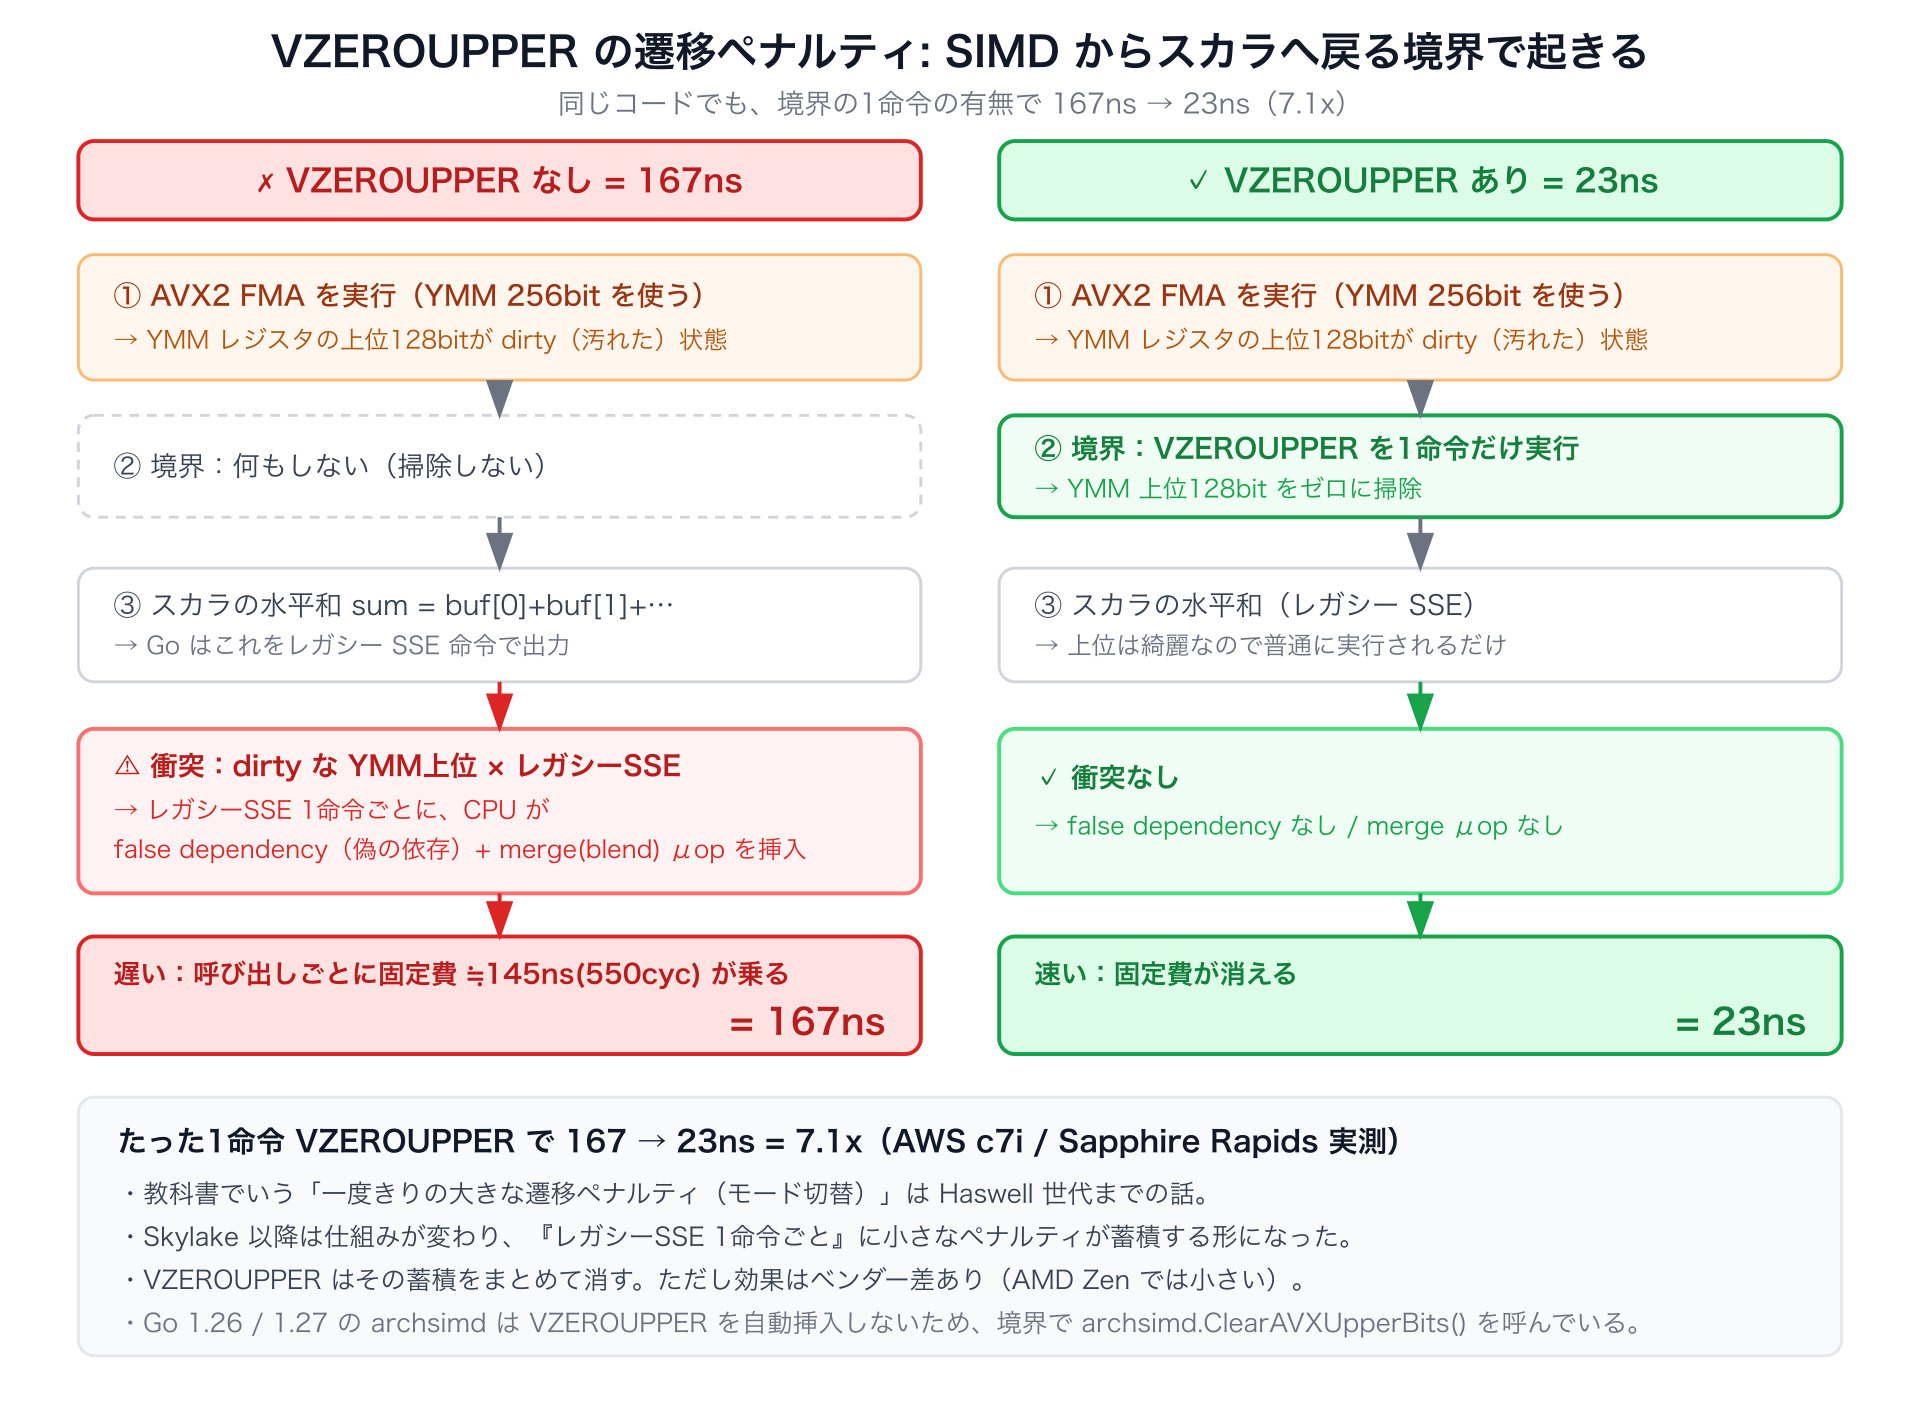
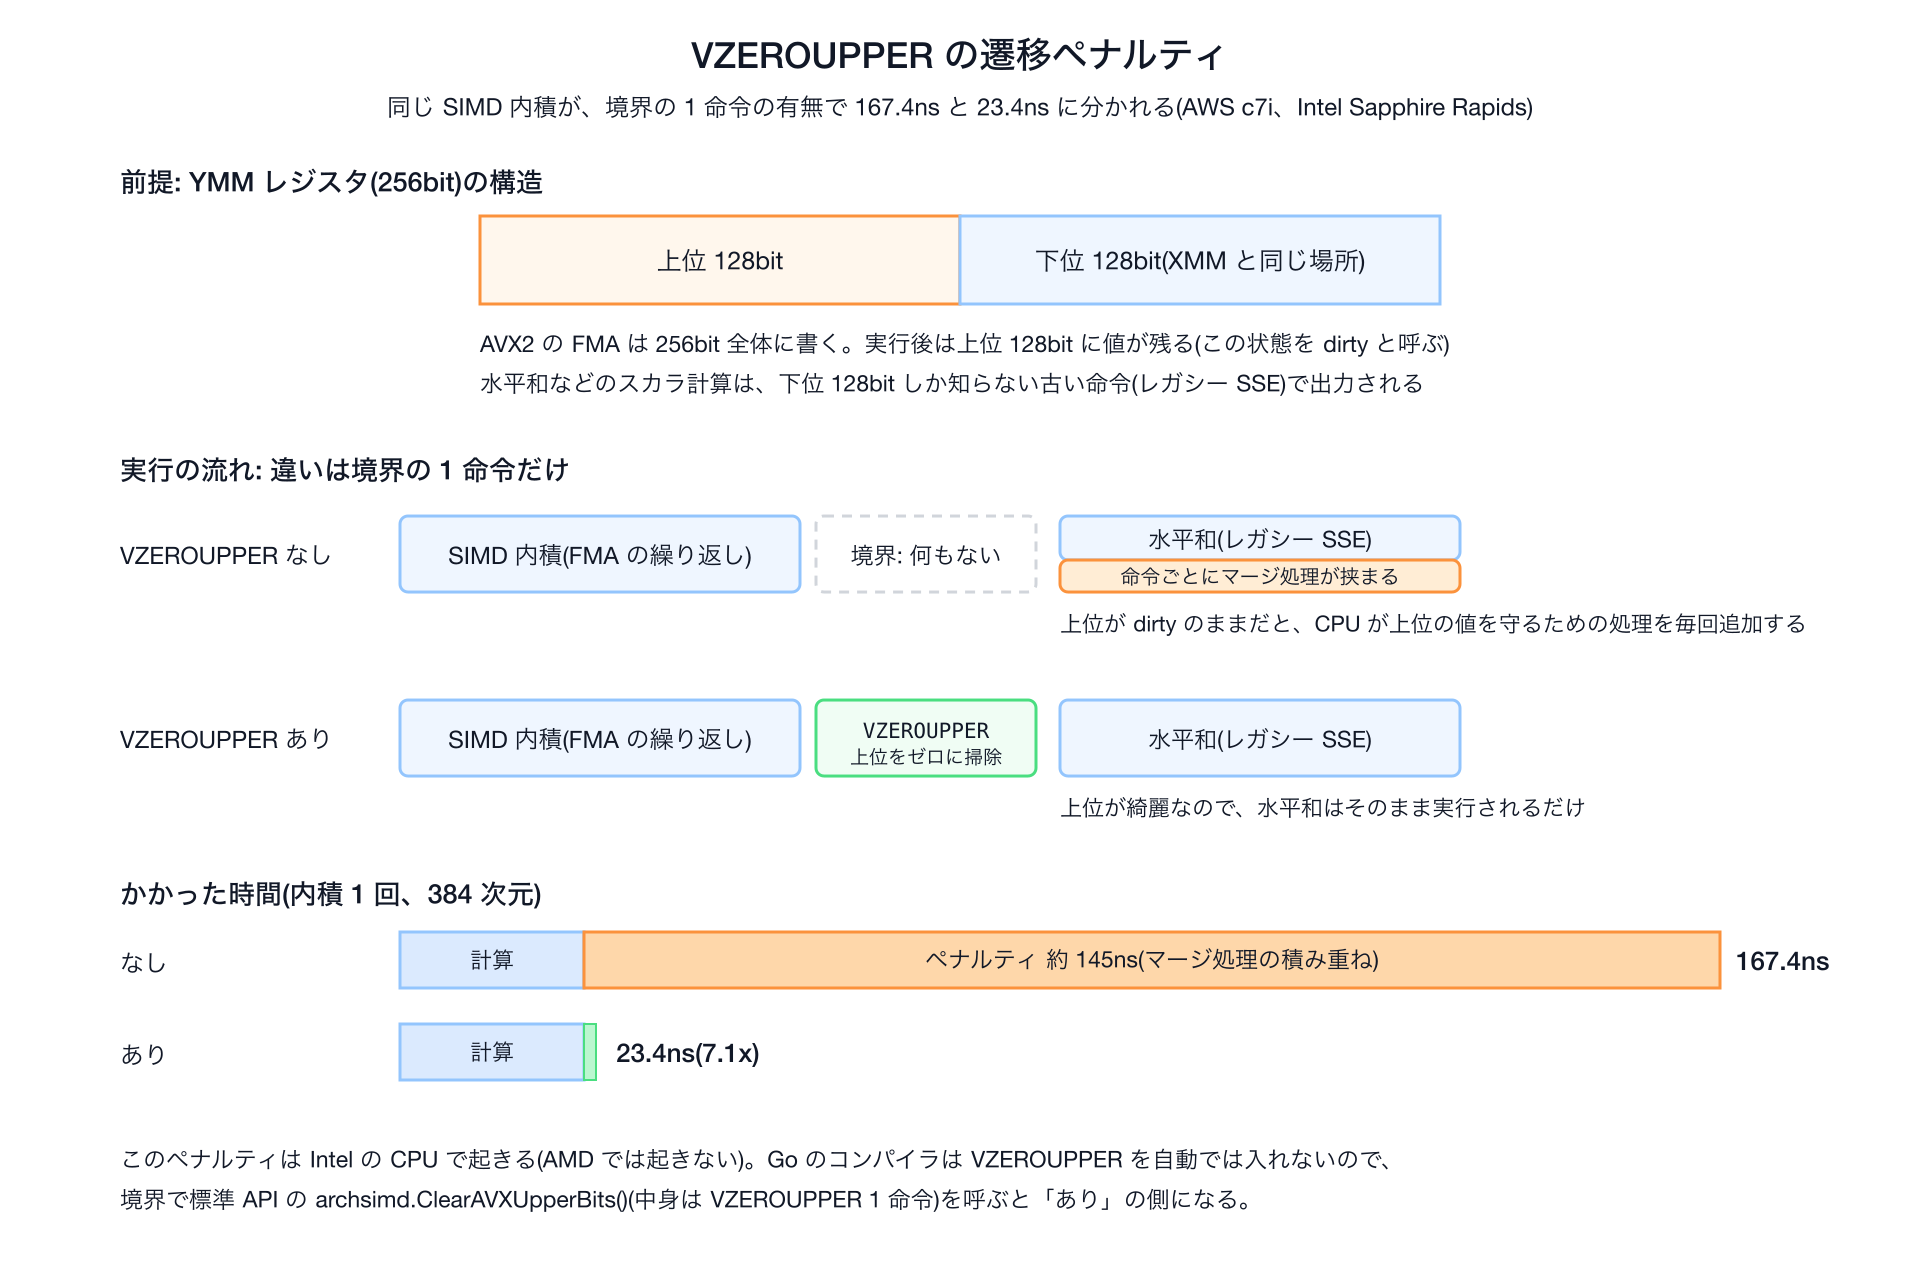
docs: 付録 §1 の図 2 枚(VZEROUPPER・register spill)を描き直し、本文を図に追従
VZEROUPPER の図をチェックリスト調の左右比較から、レジスタの構造・
実行の流れ・時間の内訳の 3 段構成に変更。ペナルティ約 145ns を
時間バーの長さで見せる。register spill の図は期待/実際の対比を
残しつつ、機械語 3 行(読む・FMA・書き戻す)をそのまま載せて
make spill の出力と対応づけた。記号(✗✓⚠)と色の煽りを排除。
本文は図の構成に合わせて段落を分割し、図を機械語の説明の前に移動。

Claude-Session: https://claude.ai/code/session_01TBZQnjYJzkxaC3BBCYE5nD

Changed region(s): [[0.0312, 0.0, 0.9688, 0.9688]]

diff --git a/docs/appendix/appendix.md b/docs/appendix/appendix.md
@@ -29,17 +29,17 @@
 | ② register spill      | 出現する。アキュムレータ 4 本で 23、12 本で 39 GFLOP/s | 出現する。4 本で 13.4、12 本で 25.6 GFLOP/s |
 
 
-本実装が境界で `archsimd.ClearAVXUpperBits()`(中身は VZEROUPPER 1 命令)を呼ぶのは Intel 機での保険で、AMD では何も起きないだけです。
-
-### 隠れた上限①: VZEROUPPER の遷移ペナルティ(SIMD からスカラへ戻る境界で起きる)
+### 隠れた上限①: VZEROUPPER の遷移ペナルティ
 
 内積を SIMD 化したのに、全探索の見かけの帯域が 5.7 GB/s と低く、内積単体も 167.4ns で頭打ちでした。SIMD からスカラへ戻る境界に `VZEROUPPER` を 1 命令置くだけで 23.4ns(7.1x)まで速くなり、見かけの帯域の上限も消えました。
 
-次の図は、同じ SIMD 内積を VZEROUPPER なし(左)とあり(右)で実行したときに CPU の中で何が起きるかを、上から順に追ったものです。
+何が起きているかを次の図にまとめました。前提になるレジスタの構造、境界の 1 命令だけが違う実行の流れ、時間の内訳、の順に見てください。
 
-![VZEROUPPER のあり/なし比較](../images/vzeroupper.png)
+![VZEROUPPER の遷移ペナルティ: レジスタの構造、実行の流れ、時間の内訳](../images/vzeroupper.png)
 
-原因は YMM レジスタの上位半分です。AVX2 命令(`Float32x8` の FMA など)を使うと、YMM レジスタ(256bit)の上位 128bit が「dirty(汚れた)」状態になります。その直後の水平和 `sum = buf[0]+buf[1]+…` はスカラの float32 計算で、Go はこれをレガシー SSE 命令(128bit だけを扱う古い命令)で出力します。上位が dirty なままレガシー SSE を実行すると CPU にペナルティが発生します。`VZEROUPPER` は上位 128bit をゼロに掃除する 1 命令で、境界で一度呼べばこのペナルティは消えます。命令自体のコストは小さいので、差し引きで大きく得をします。
+原因は YMM レジスタの上位半分です。YMM レジスタ(256bit)は、下位 128bit を古い XMM レジスタと共有しています。AVX2 命令(`Float32x8` の FMA など)は 256bit 全体に書くので、実行後は上位 128bit に値が残ります。この状態を dirty(汚れた)と呼びます。
+
+一方、SIMD ループの直後にある水平和 `sum = buf[0]+buf[1]+…` はスカラの float32 計算で、Go はこれをレガシー SSE 命令(下位 128bit しか知らない古い命令)で出力します。Intel の CPU は、上位が dirty なままレガシー SSE を実行すると、上位の値を壊さないための処理を命令ごとに挟みます。これがペナルティの正体です。`VZEROUPPER` は上位 128bit をゼロに掃除する 1 命令で、境界で一度呼べばこのペナルティは消えます。命令自体のコストは小さいので、差し引きで大きく得をします。
 
 ペナルティの仕組みは CPU の世代で違います(出典: Agner Fog, [The microarchitecture of Intel, AMD and VIA CPUs](https://www.agner.org/optimize/microarchitecture.pdf))。
 
@@ -71,11 +71,11 @@ Go の archsimd はこの VZEROUPPER を自動挿入しません(1.26、1.27 と
 
 ※ 理論ピークは 2 FMA/cycle × 8 レーン × 2 flop × クロック(c7i は 3.75GHz、EPYC 7763 は単コアブーストの約 3.5GHz)。検索の内積は算術強度 0.5 の深いメモリ律速なので、この低さは検索の結論を変えません。ただし原因は見ておく価値があります。
 
-言葉を 2 つ定義します。レジスタは CPU の中にある一番速い値の置き場で、SIMD 用(YMM)は 16 本、そのうち Go が使えるのは 15 本です。スタックはメモリ上の作業領域で、レジスタよりずっと遅い場所です。
+言葉を 2 つ定義します。レジスタは CPU の中にある一番速い値の置き場で、SIMD 用(YMM)は 16 本、そのうち Go が使えるのは 15 本です。スタックはメモリ上の作業領域で、レジスタよりずっと遅い場所です。期待どおりなら、アキュムレータ 12 本はレジスタに置いたまま回り、ループはメモリに触りません。実際はそうなっていません。
 
-原因は機械語を見ると分かります。[`go tool objdump`](https://pkg.go.dev/cmd/objdump) で内側ループを見ると、12 本のアキュムレータが全部レジスタに置けず、毎回スタックへ退避されて、同じ 1 本のレジスタを使い回していました。これが register spill(レジスタに収まらない、または置けない値をメモリへ追い出すこと)です。FMA 1 個ごとに load と store が必ず付くので、まず load/store ポートが飽和し、さらに次の周回の load が今回の store を待ちます(store-to-load forwarding、5〜7 サイクル)。アキュムレータを増やすほどこの待ち時間が隠れるので、4 本より 12 本の方が速くなります。待ち時間で律速しているときの典型的な傾向です。
+![register spill: 期待はレジスタに置いたまま回るが、実際は毎周スタックと往復する](../images/register-spill.png)
 
-![register spill: 理想(レジスタ常駐)vs 実際(スタック往復)](../images/register-spill.png)
+図の右側は機械語で確かめられます。[`go tool objdump`](https://pkg.go.dev/cmd/objdump) で内側ループを見ると、12 本のアキュムレータが全部レジスタに置けず、毎回スタックへ退避されて、同じ 1 本のレジスタを使い回していました。これが register spill(レジスタに収まらない、または置けない値をメモリへ追い出すこと)です。FMA 1 個ごとに load と store が必ず付くので、まず load/store ポートが飽和し、さらに次の周回の load が今回の store を待ちます(store-to-load forwarding、5〜7 サイクル)。アキュムレータを増やすほどこの待ち時間が隠れるので、4 本より 12 本の方が速くなります。待ち時間で律速しているときの典型的な傾向です。
 
 本数が多すぎるわけではありません。12 本のアキュムレータに定数の 2 本を足した 14 本は、使える 15 本に収まります。レジスタが足りないのではなく、コンパイラが載せてくれないのが原因です。これはハードの限界ではなく、Go の archsimd のレジスタ割り当てが発展途上であることによるものです(VZEROUPPER を自動挿入しないのと共通の課題)。既知 issue [golang/go#76969](https://github.com/golang/go/issues/76969)(closed / not planned)と同件です。[#78753](https://github.com/golang/go/issues/78753)(AVX-512 の上位 16 本の ZMM が割り当てられない件)は Go 1.27 で閉じましたが、この 12 本 AVX2 ループの spill は Go 1.27.1 でも残っています(`make spill GO=go1.27.1` で `VMOVDQU …(SP)` が 40 行余り出ます。amd64 向けにクロスコンパイルするだけなので mac でも動きます)。arm64(Neon)でも同じで、M3 Pro の 12 本 FMLA ループは `FMOVQ …(SP)` に挟まれます。将来このピークは上がる見込みですが、1.27 ではまだです。
 
